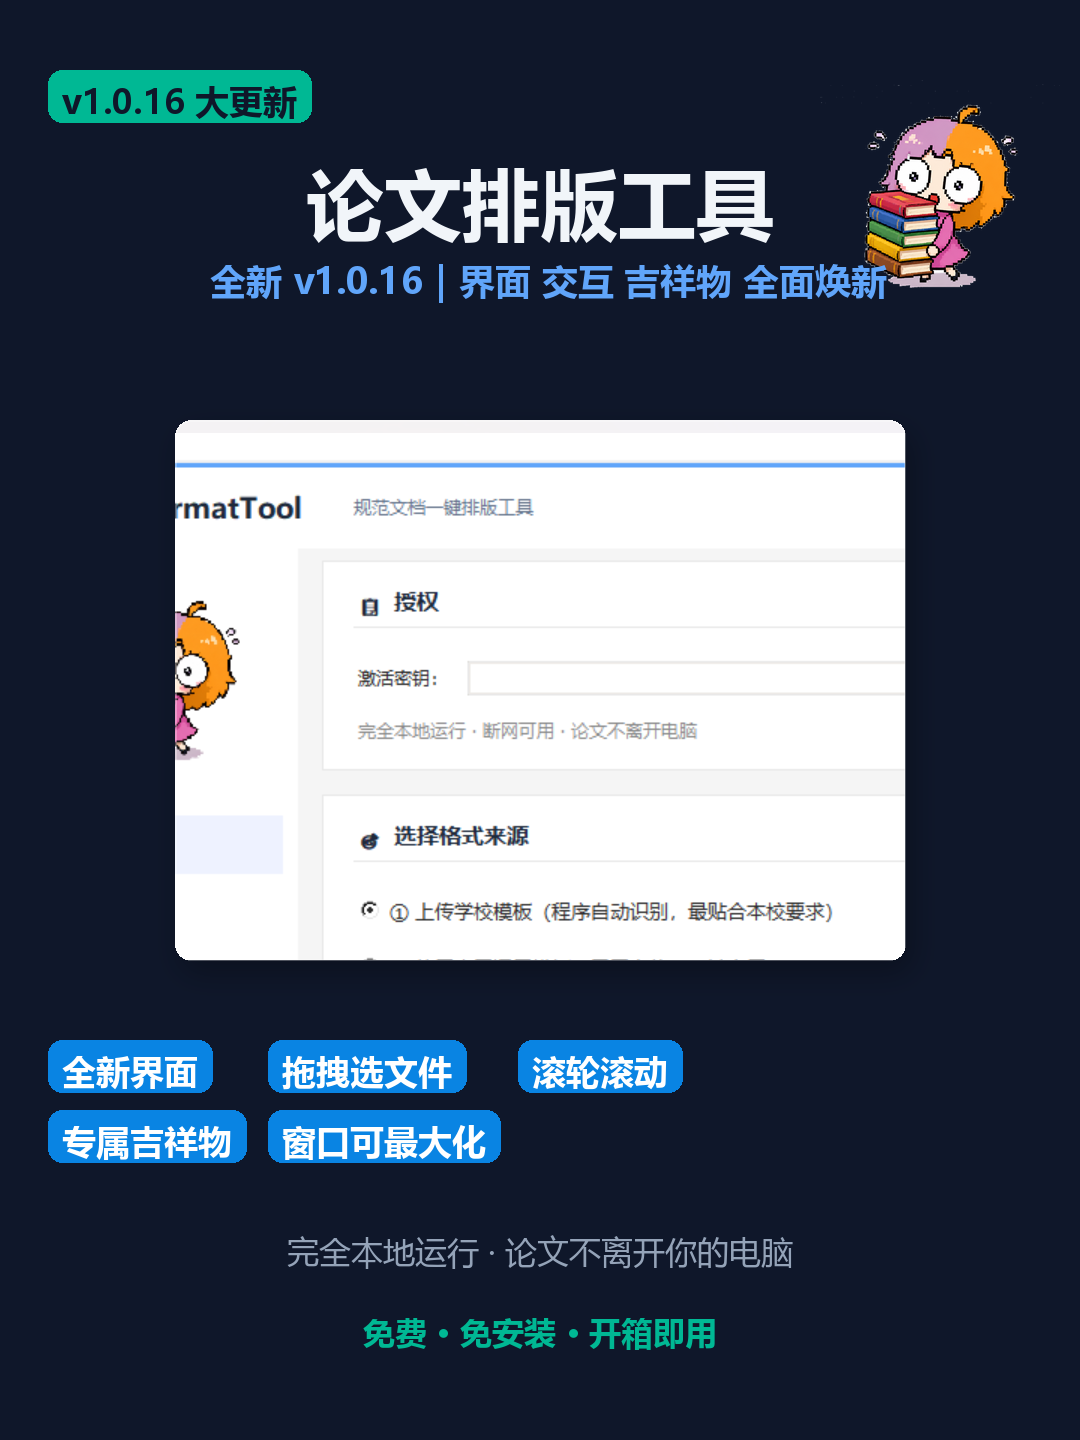
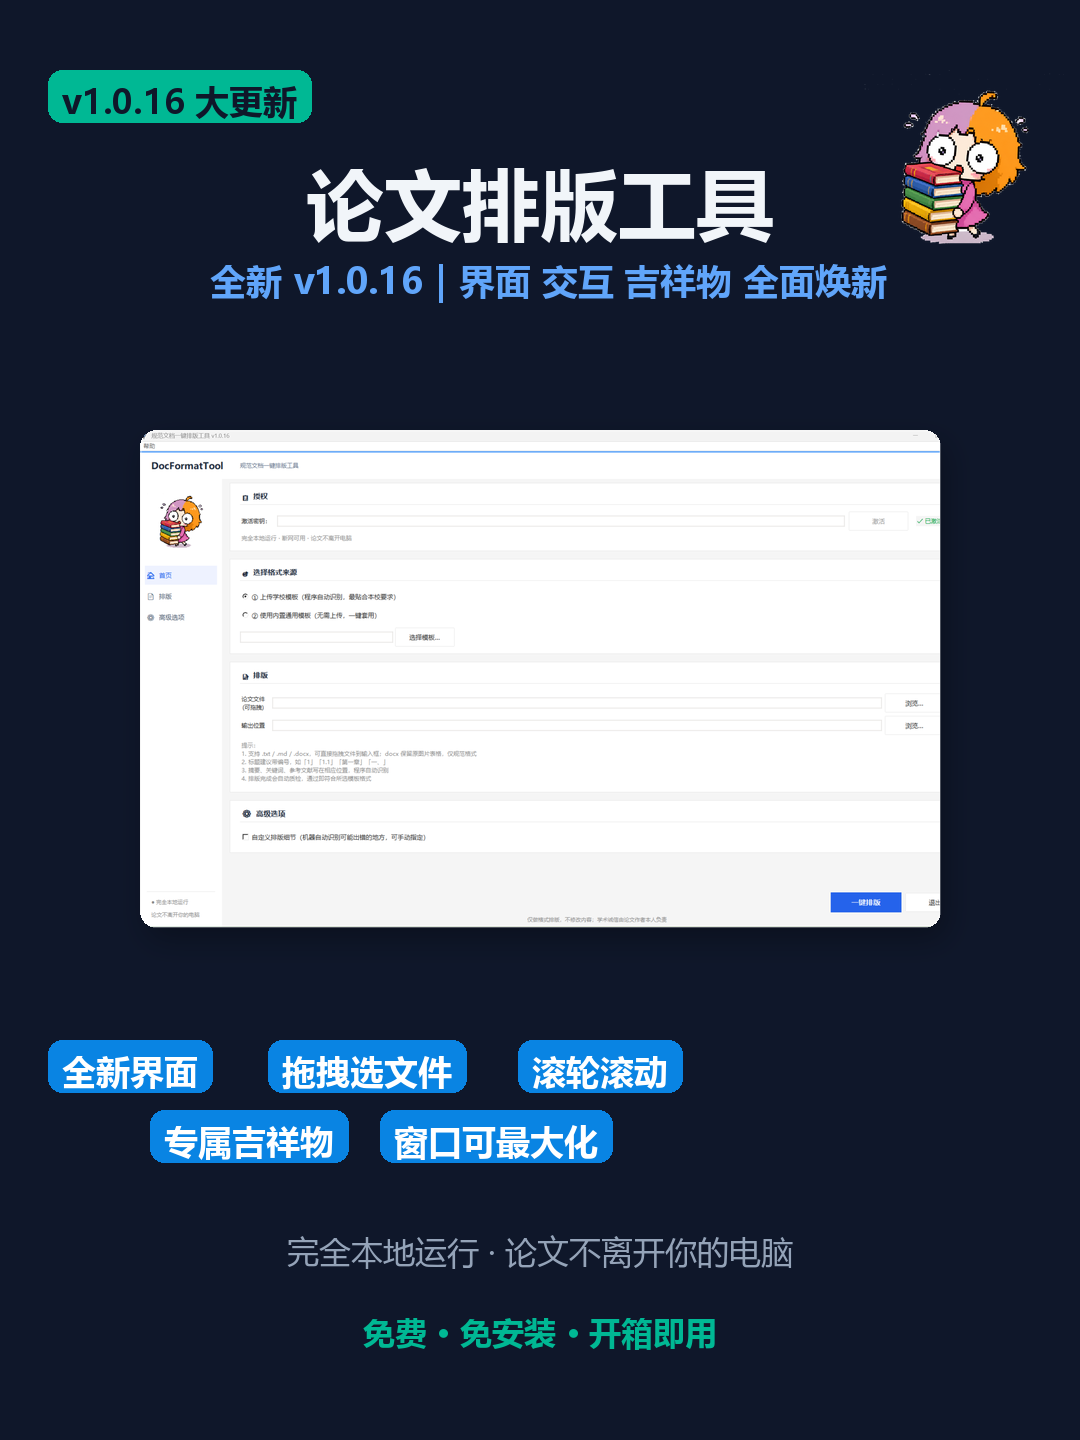
宣传图用用户手截干净截图重做：shot_card自适应缩放+布局微调(吉祥物/胶囊居中/截图比例)

Changed region(s): [[0.1222, 0.2812, 0.8861, 0.6875], [0.0306, 0.75, 0.5806, 0.8125], [0.7944, 0.0625, 0.9472, 0.2188]]

diff --git a/site/make_xhs_1016.py b/site/make_xhs_1016.py
@@ -59,6 +59,16 @@ def badge(draw, x, y, s, bg, fg, size=34):
     draw.text((x + 14, y + 8), s, font=f, fill=fg)
 
 
+def shot_card(path, width, crop_box=None):
+    """读截图 → 可选裁切 → resize 到指定宽度（保持比例），返回 (img, 高度)。"""
+    img = Image.open(path)
+    if crop_box:
+        img = img.crop(crop_box)
+    img = img.convert('RGB')
+    h = int(img.height * width / img.width)
+    return img.resize((width, h), Image.LANCZOS), h
+
+
 def new_base():
     img = Image.new("RGBA", CANVAS, BG)
     return img, ImageDraw.Draw(img)
@@ -66,11 +76,11 @@ def new_base():
 
 # ============ 图1 封面 ============
 img, d = new_base()
-# 吉祥物（主标题右侧，放大不孤立）
+# 吉祥物（主标题右侧，缩小不拥挤）
 mascot = Image.open(r'site\mascot_raw.png').convert('RGBA')
-mw, mh = 240, 208
+mw, mh = 200, 174
 mascot_s = mascot.resize((mw, mh), Image.LANCZOS)
-img.paste(mascot_s, (CANVAS[0] - mw - 20, 80), mascot_s)
+img.paste(mascot_s, (CANVAS[0] - mw - 16, 70), mascot_s)
 # 顶部标签
 badge(d, PAD, 70, "v1.0.16 大更新", GREEN, "#0F172A")
 # 主标题
@@ -79,15 +89,15 @@ text_center(d, 150, "论文排版工具", font(78, True), TEXT_MAIN)
 d.text((210, 255), "全新 v1.0.16｜界面 交互 吉祥物 全面焕新", font=font(36, True), fill=ACCENT)
 # 副标题
 # （去重：主标题下方已有更新信息，此处不再重复）
-# 新界面截图（卡片）——裁掉被遮挡区域（左上角混入聊天窗口），取干净主区
-shot = Image.open(r'site\ui_shot_top.png').crop((250, 100, 980, 640))
-card_with_shadow(img, shot, (CANVAS[0] - shot.width) // 2, 420, shot.width, shot.height)
+# 新界面截图（卡片）——用户手截干净原图（裁窗口区域 + 自适应缩放）
+shot, sh = shot_card(r'site\xhs_src\top.png', 800, (0, 0, 2460, 1529))
+card_with_shadow(img, shot, (CANVAS[0] - 800) // 2, 430, 800, sh)
 # 底部卖点标签
 badge(d, PAD, 1040, "全新界面", BLUE, "#FFFFFF")
 badge(d, PAD + 220, 1040, "拖拽选文件", BLUE, "#FFFFFF")
 badge(d, PAD + 470, 1040, "滚轮滚动", BLUE, "#FFFFFF")
-badge(d, PAD, 1110, "专属吉祥物", BLUE, "#FFFFFF")
-badge(d, PAD + 220, 1110, "窗口可最大化", BLUE, "#FFFFFF")
+badge(d, 150, 1110, "专属吉祥物", BLUE, "#FFFFFF")
+badge(d, 380, 1110, "窗口可最大化", BLUE, "#FFFFFF")
 text_center(d, 1230, "完全本地运行 · 论文不离开你的电脑", font(32), TEXT_SUB)
 text_center(d, 1310, "免费 · 免安装 · 开箱即用", font(32, True), GREEN)
 img.convert('RGB').save(os.path.join(OUT, 'xhs_1_cover.png'))
@@ -127,13 +137,13 @@ print('图2 卖点 OK')
 img, d = new_base()
 text_center(d, 70, "新界面长这样", font(64, True), TEXT_MAIN)
 text_center(d, 150, "左边有排排，右边是功能卡片", font(34), TEXT_SUB)
-shot_top = Image.open(r'site\ui_shot_top.png').crop((250, 100, 980, 640))
-card_with_shadow(img, shot_top, (CANVAS[0] - shot_top.width) // 2, 210, shot_top.width, shot_top.height)
-text_center(d, 680, "拖拽文件到窗口任意位置 → 自动填路径", font(34, True), ACCENT)
-shot_pt = Image.open(r'site\ui_shot_pt.png').crop((250, 100, 980, 640))
-card_with_shadow(img, shot_pt, (CANVAS[0] - shot_pt.width) // 2, 760, shot_pt.width, shot_pt.height)
-text_center(d, 1230, "「可拖拽」提示 + 拖拽时输入框变蓝", font(34, True), GREEN)
-text_center(d, 1320, "一键排版固定在底部，随时可点", font(32), TEXT_SUB)
+shot_top, sh_top = shot_card(r'site\xhs_src\top.png', 700, (0, 0, 2460, 1529))
+card_with_shadow(img, shot_top, (CANVAS[0] - 700) // 2, 200, 700, sh_top)
+text_center(d, 660, "拖拽文件到窗口任意位置 → 自动填路径", font(32, True), ACCENT)
+shot_pt, sh_pt = shot_card(r'site\xhs_src\pt.png', 850, (0, 0, 2303, 819))
+card_with_shadow(img, shot_pt, (CANVAS[0] - 850) // 2, 720, 850, sh_pt)
+text_center(d, 1060, "「可拖拽」提示 + 拖拽时输入框变蓝", font(32, True), GREEN)
+text_center(d, 1140, "一键排版固定在底部，随时可点", font(30), TEXT_SUB)
 img.convert('RGB').save(os.path.join(OUT, 'xhs_3_ui.png'))
 print('图3 界面 OK')
 
